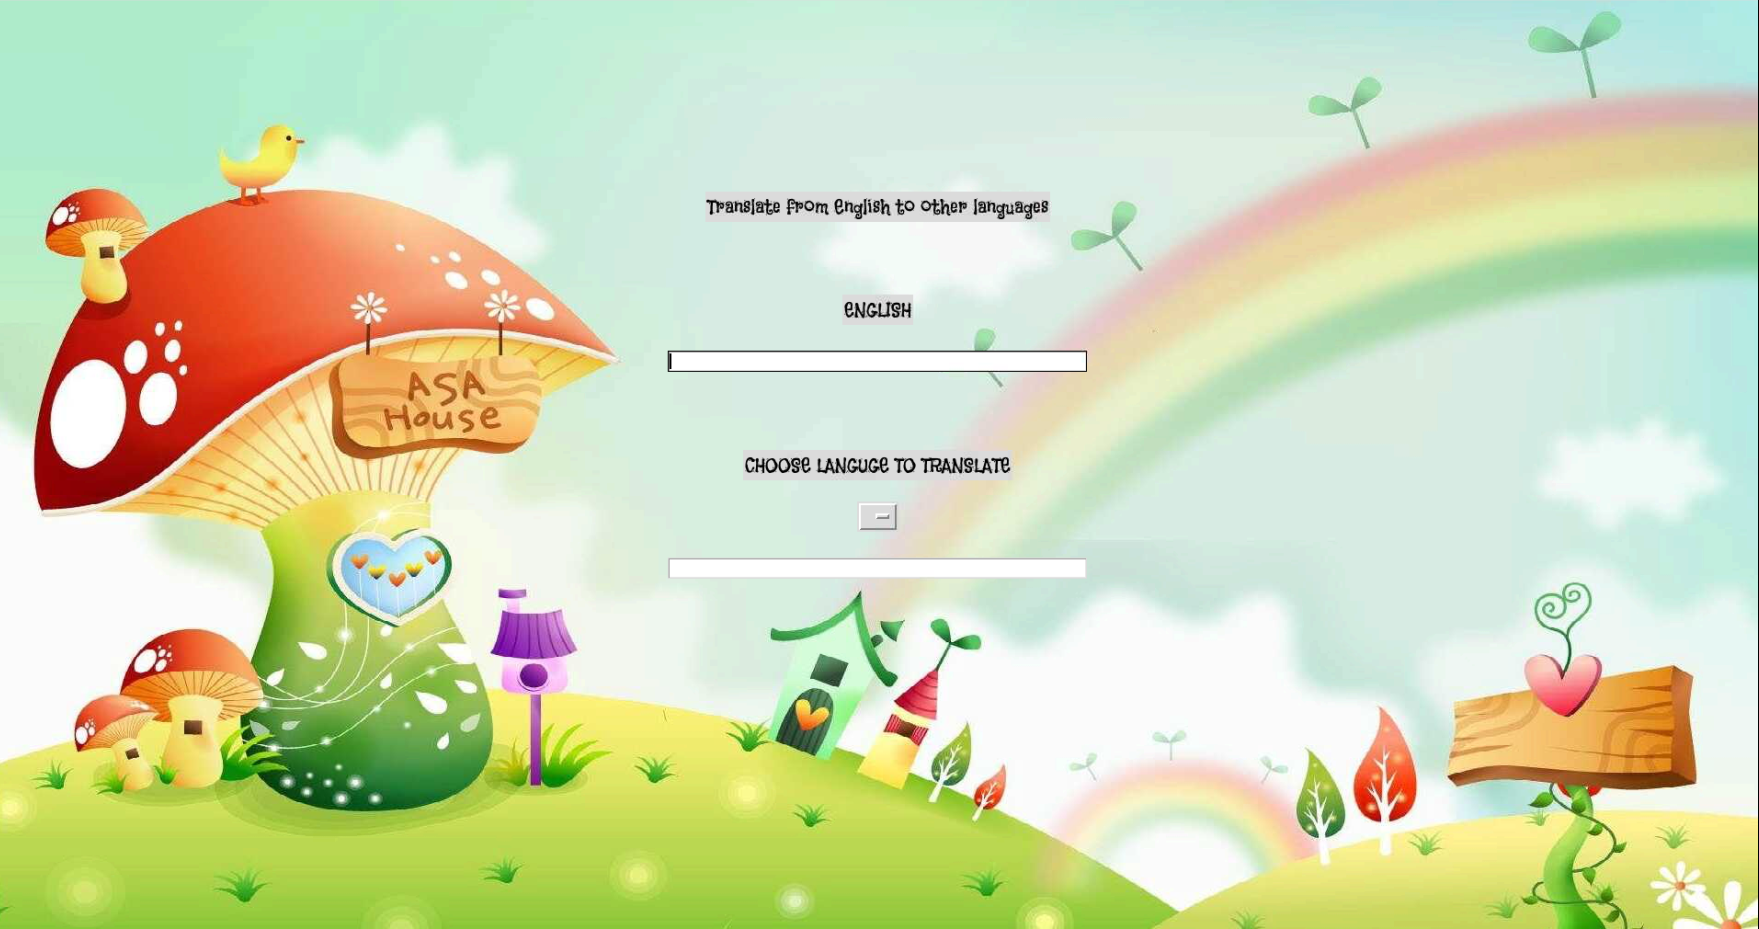
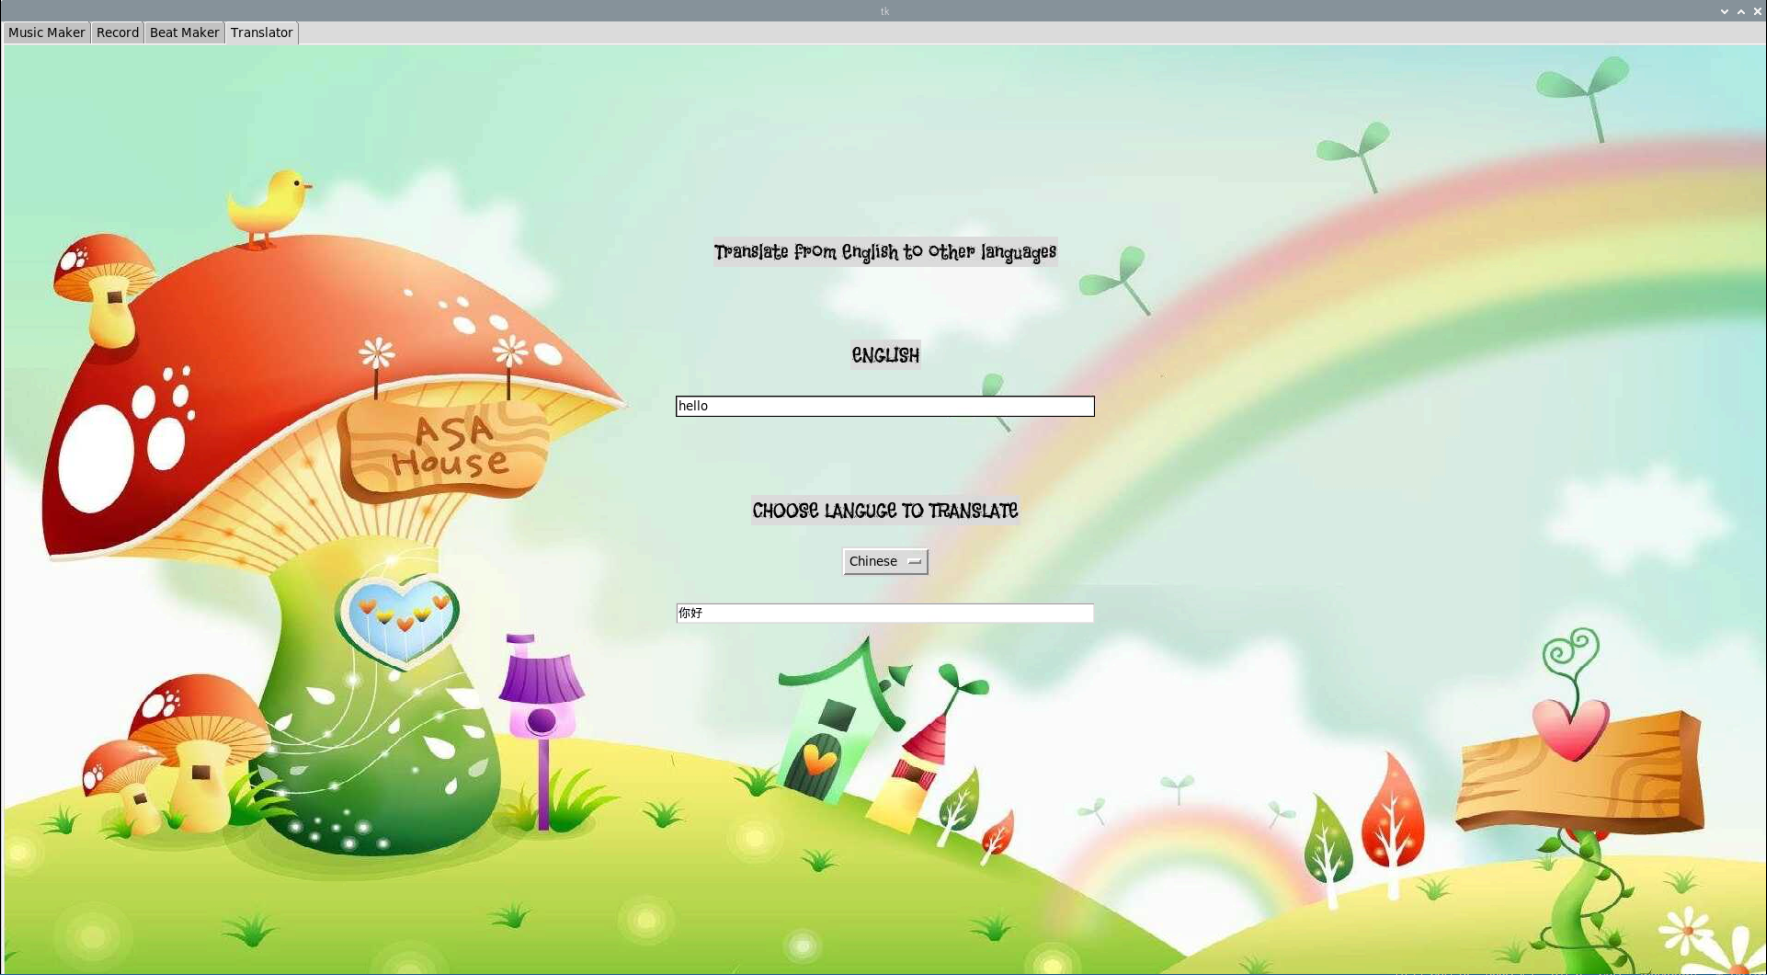
changed translator image

diff --git a/README.md b/README.md
@@ -11,7 +11,7 @@ Raspberry Pi Project on “Learning & Creating Art with Sound”. This project i
 **Beat Maker**
 ![](documentation_images/beatmaker.png)
 
-**Translator**
+**Translator** The **Translator** function allow users to translate any text in English to other languages. The supported languages include Chinese. Malay, Korean, Japanese, Tamil, French, Spanish, Vietnamese.
 ![](documentation_images/translator.png)
 
 ## To run Tkinter GUI on boot
